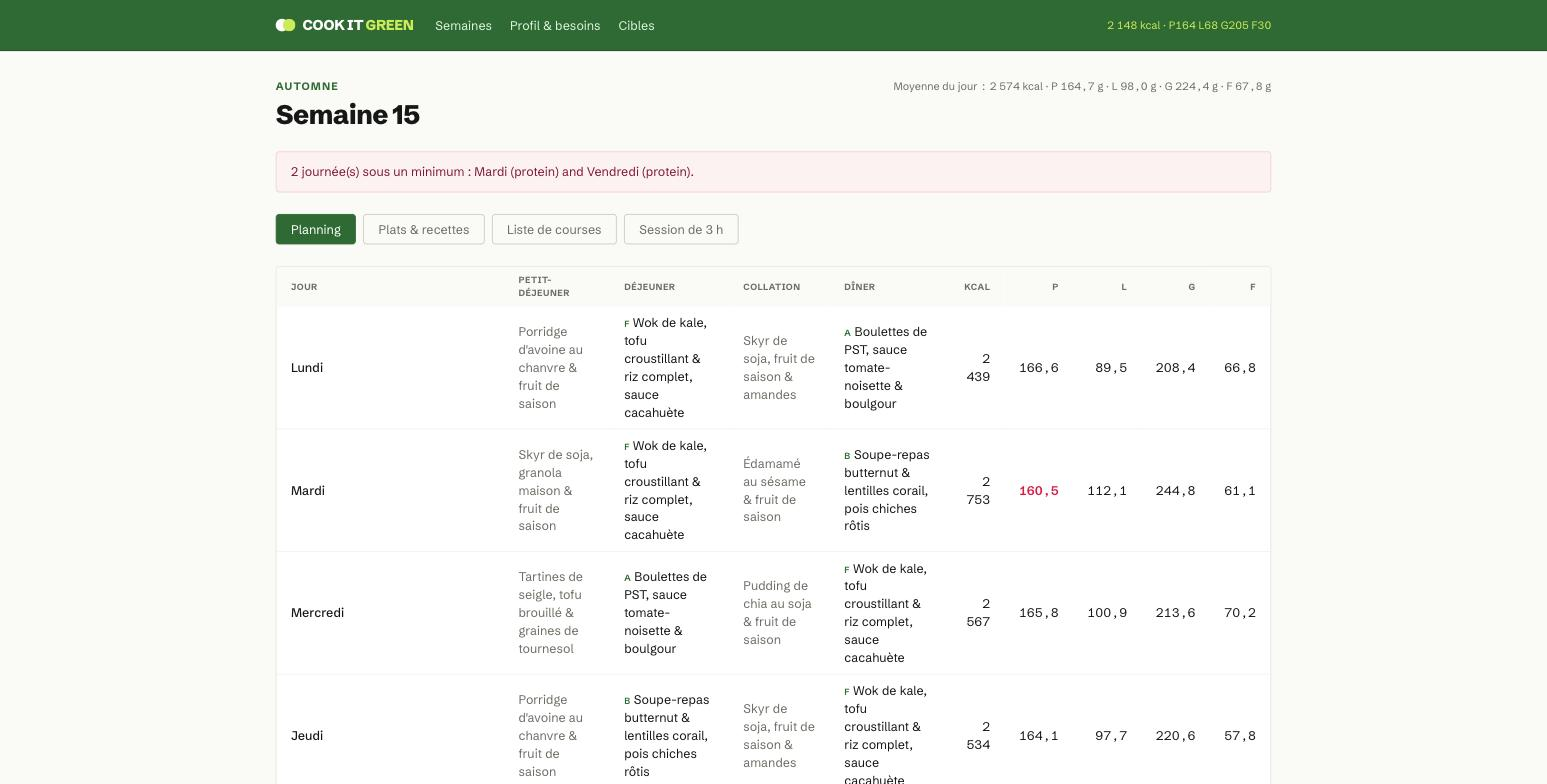
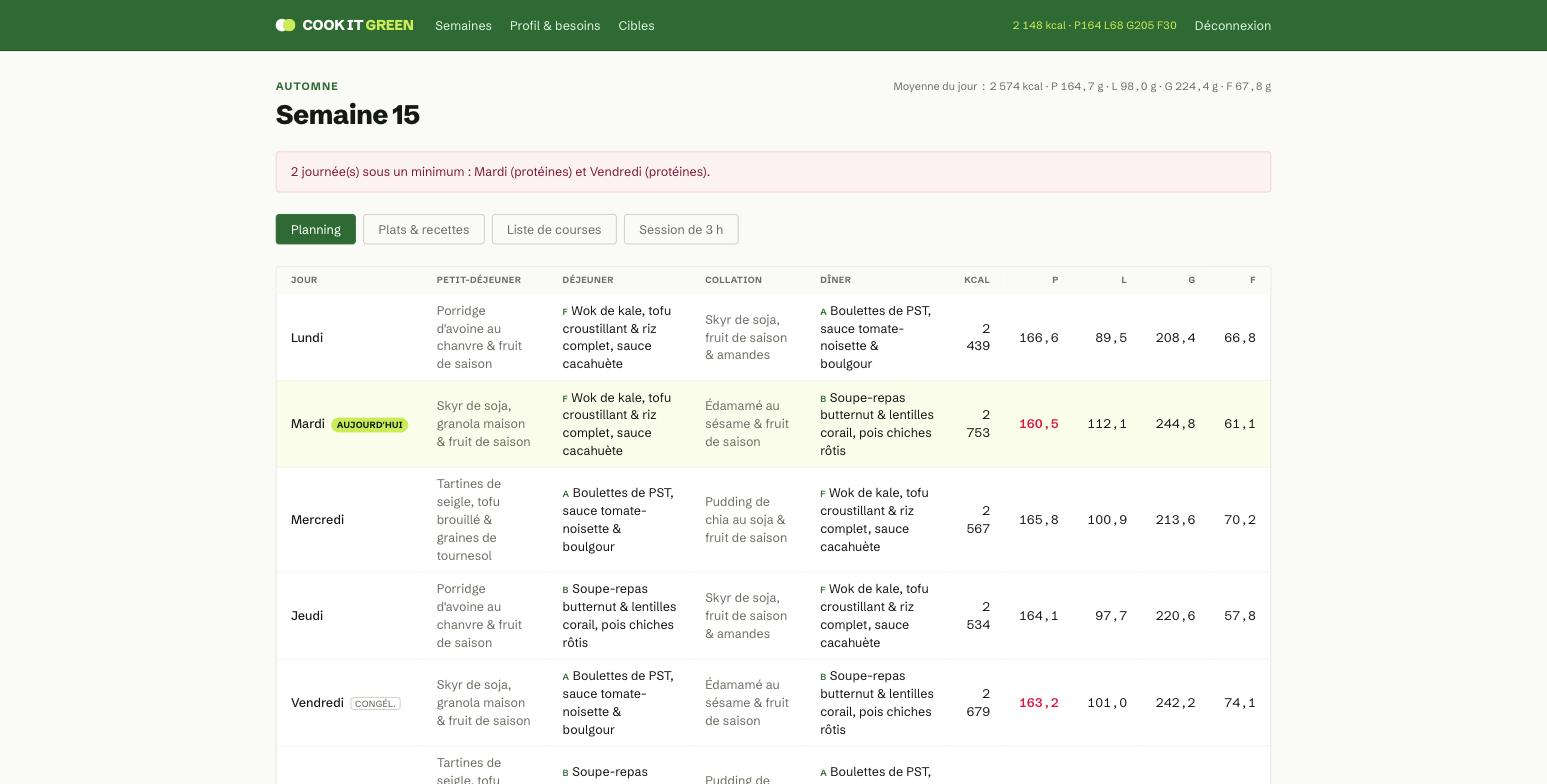
Fix English leaking into the French shortfall warning
Two separate causes: Rails' to_sentence falls back to " and " when
the current locale has no support.array translations — fr.yml never
defined them, so every to_sentence call in the app (this banner, both
reminder job bodies, the nutrition target error flash) silently used
the English connector despite default_locale being :fr. And the
shortfall list itself rendered raw macro symbols (:protein) instead
of a French label.

Re-captured the four screenshots that showed the banner.

Claude-Session: https://claude.ai/code/session_01QVQmdbQ4vcgod8FFE6aj6t

diff --git a/app/helpers/application_helper.rb b/app/helpers/application_helper.rb
@@ -23,6 +23,8 @@ module ApplicationHelper
 
   def grams(value) = "#{number_with_precision(value, precision: value.to_f % 1 == 0 ? 0 : 1)} g"
 
+  def macro_label(macro) = { protein: "protéines", lipid: "lipides", carb: "glucides", fiber: "fibres" }.fetch(macro)
+
   private
 
   def macro_key(label)
